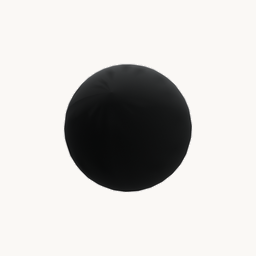
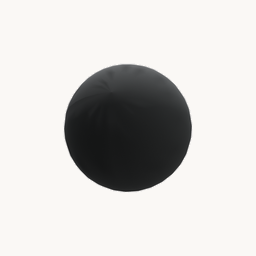
brass_pot texture fix (white base under albedo) + more pose/view overrides
- Textured materials with a dim mtl Kd (brass_pot 0.4) were multiplying the albedo
  down to gray; force base_color white when an albedo texture is present.
- New view rotations: blue_alarm 80, balloon_whisk 90, black_holder_with_handle 300,
  container_pink 80. Cache-bust v12.

Changed region(s): [[0.3438, 0.25, 0.6875, 0.375]]

diff --git a/docs/gallery.html b/docs/gallery.html
@@ -222,7 +222,7 @@
         card.onkeydown = (e) => { if (e.key === 'Enter') go(); };
 
         const thumb = obj.thumb
-          ? `<img src="objects/${obj.id}/thumb.png?v=11" alt="${escapeHtml(obj.label)}" loading="lazy" onerror="this.parentElement.innerHTML='<div class=placeholder>&#9645;</div>'">`
+          ? `<img src="objects/${obj.id}/thumb.png?v=12" alt="${escapeHtml(obj.label)}" loading="lazy" onerror="this.parentElement.innerHTML='<div class=placeholder>&#9645;</div>'">`
           : '<div class="placeholder">&#9645;</div>';
         card.innerHTML = `
           <div class="frame">${thumb}</div>

diff --git a/wiki/gallery.html b/wiki/gallery.html
@@ -222,7 +222,7 @@
         card.onkeydown = (e) => { if (e.key === 'Enter') go(); };
 
         const thumb = obj.thumb
-          ? `<img src="objects/${obj.id}/thumb.png?v=11" alt="${escapeHtml(obj.label)}" loading="lazy" onerror="this.parentElement.innerHTML='<div class=placeholder>&#9645;</div>'">`
+          ? `<img src="objects/${obj.id}/thumb.png?v=12" alt="${escapeHtml(obj.label)}" loading="lazy" onerror="this.parentElement.innerHTML='<div class=placeholder>&#9645;</div>'">`
           : '<div class="placeholder">&#9645;</div>';
         card.innerHTML = `
           <div class="frame">${thumb}</div>

diff --git a/wiki/render_thumbnails.py b/wiki/render_thumbnails.py
@@ -46,10 +46,13 @@ POSE_OVERRIDE = {
 # Per-object camera-direction override (object frame, +z up), for objects whose
 # default 3/4 view faces an uninteresting side.
 VIEW_OVERRIDE = {
-    "blue_alarm": np.array([-0.6, -1.0, 0.4]),   # front-3/4 rotated 180deg about +z
+    "blue_alarm": np.array([-0.881, 0.765, 0.4]),  # front-3/4 rotated 80deg about +z
     "clock": np.array([0.248, 1.166, 0.55]),     # default 3/4 view rotated 135deg about +z
     "donut_light": np.array([1.0, 0.65, 0.55]),  # default view rotated 90deg about +z
     "frame_oak": np.array([-0.65, 1.0, 0.55]),   # default view rotated 180deg about +z
+    "balloon_whisk": np.array([1.0, 0.65, 0.55]),  # default view rotated 90deg about +z
+    "black_holder_with_handle": np.array([-0.541, -1.063, 0.55]),  # default view rotated 300deg
+    "container_pink": np.array([1.098, 0.466, 0.55]),  # default view rotated 80deg about +z
 }
 
 
@@ -125,7 +128,12 @@ def render_thumb(o3d, obj_path, P, size, bg_rgb, view_dir=_VIEW_DIR, base_color=
             g = mi.mesh
             if P is not None:
                 g.transform(P)
-            add_two_sided(f"m{i}", g, model.materials[mi.material_idx])
+            mat = model.materials[mi.material_idx]
+            # A dim mtl Kd (e.g. brass_pot's 0.4) becomes base_color and multiplies
+            # the albedo down to gray. With a texture present, show it full-bright.
+            if getattr(mat, "albedo_img", None) is not None:
+                mat.base_color = [1.0, 1.0, 1.0, 1.0]
+            add_two_sided(f"m{i}", g, mat)
     else:
         # Open3D's OBJ reader ignores per-vertex colors, so load with trimesh
         # (which reads them) and copy the colors onto an Open3D mesh.
